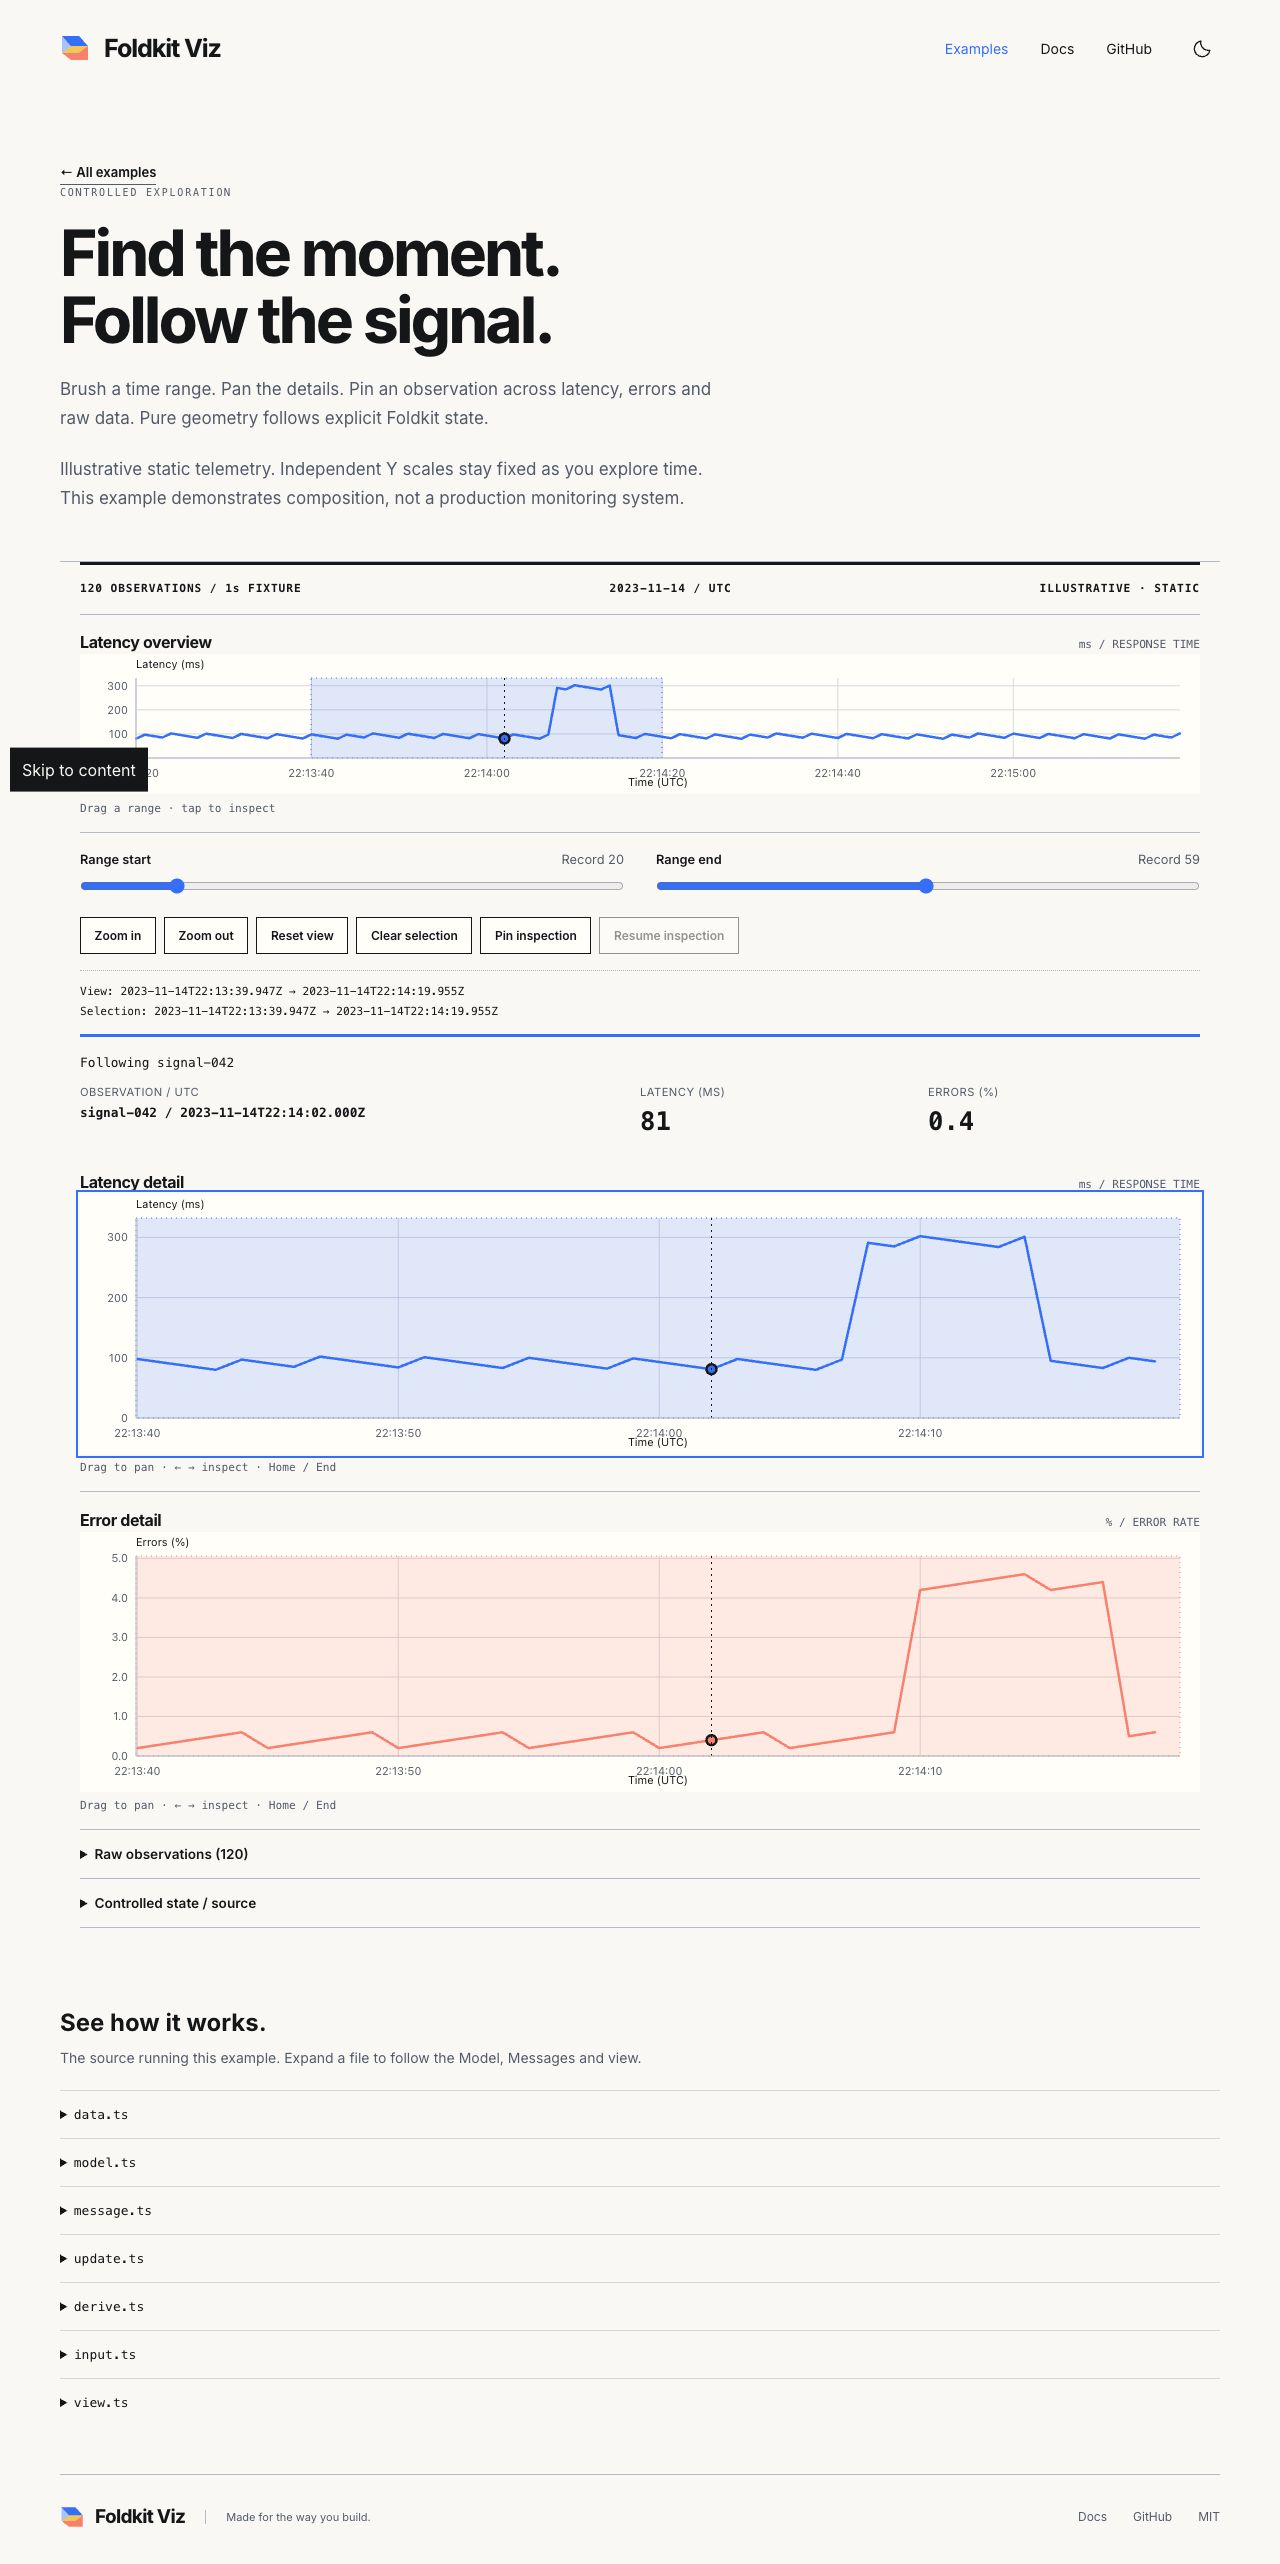
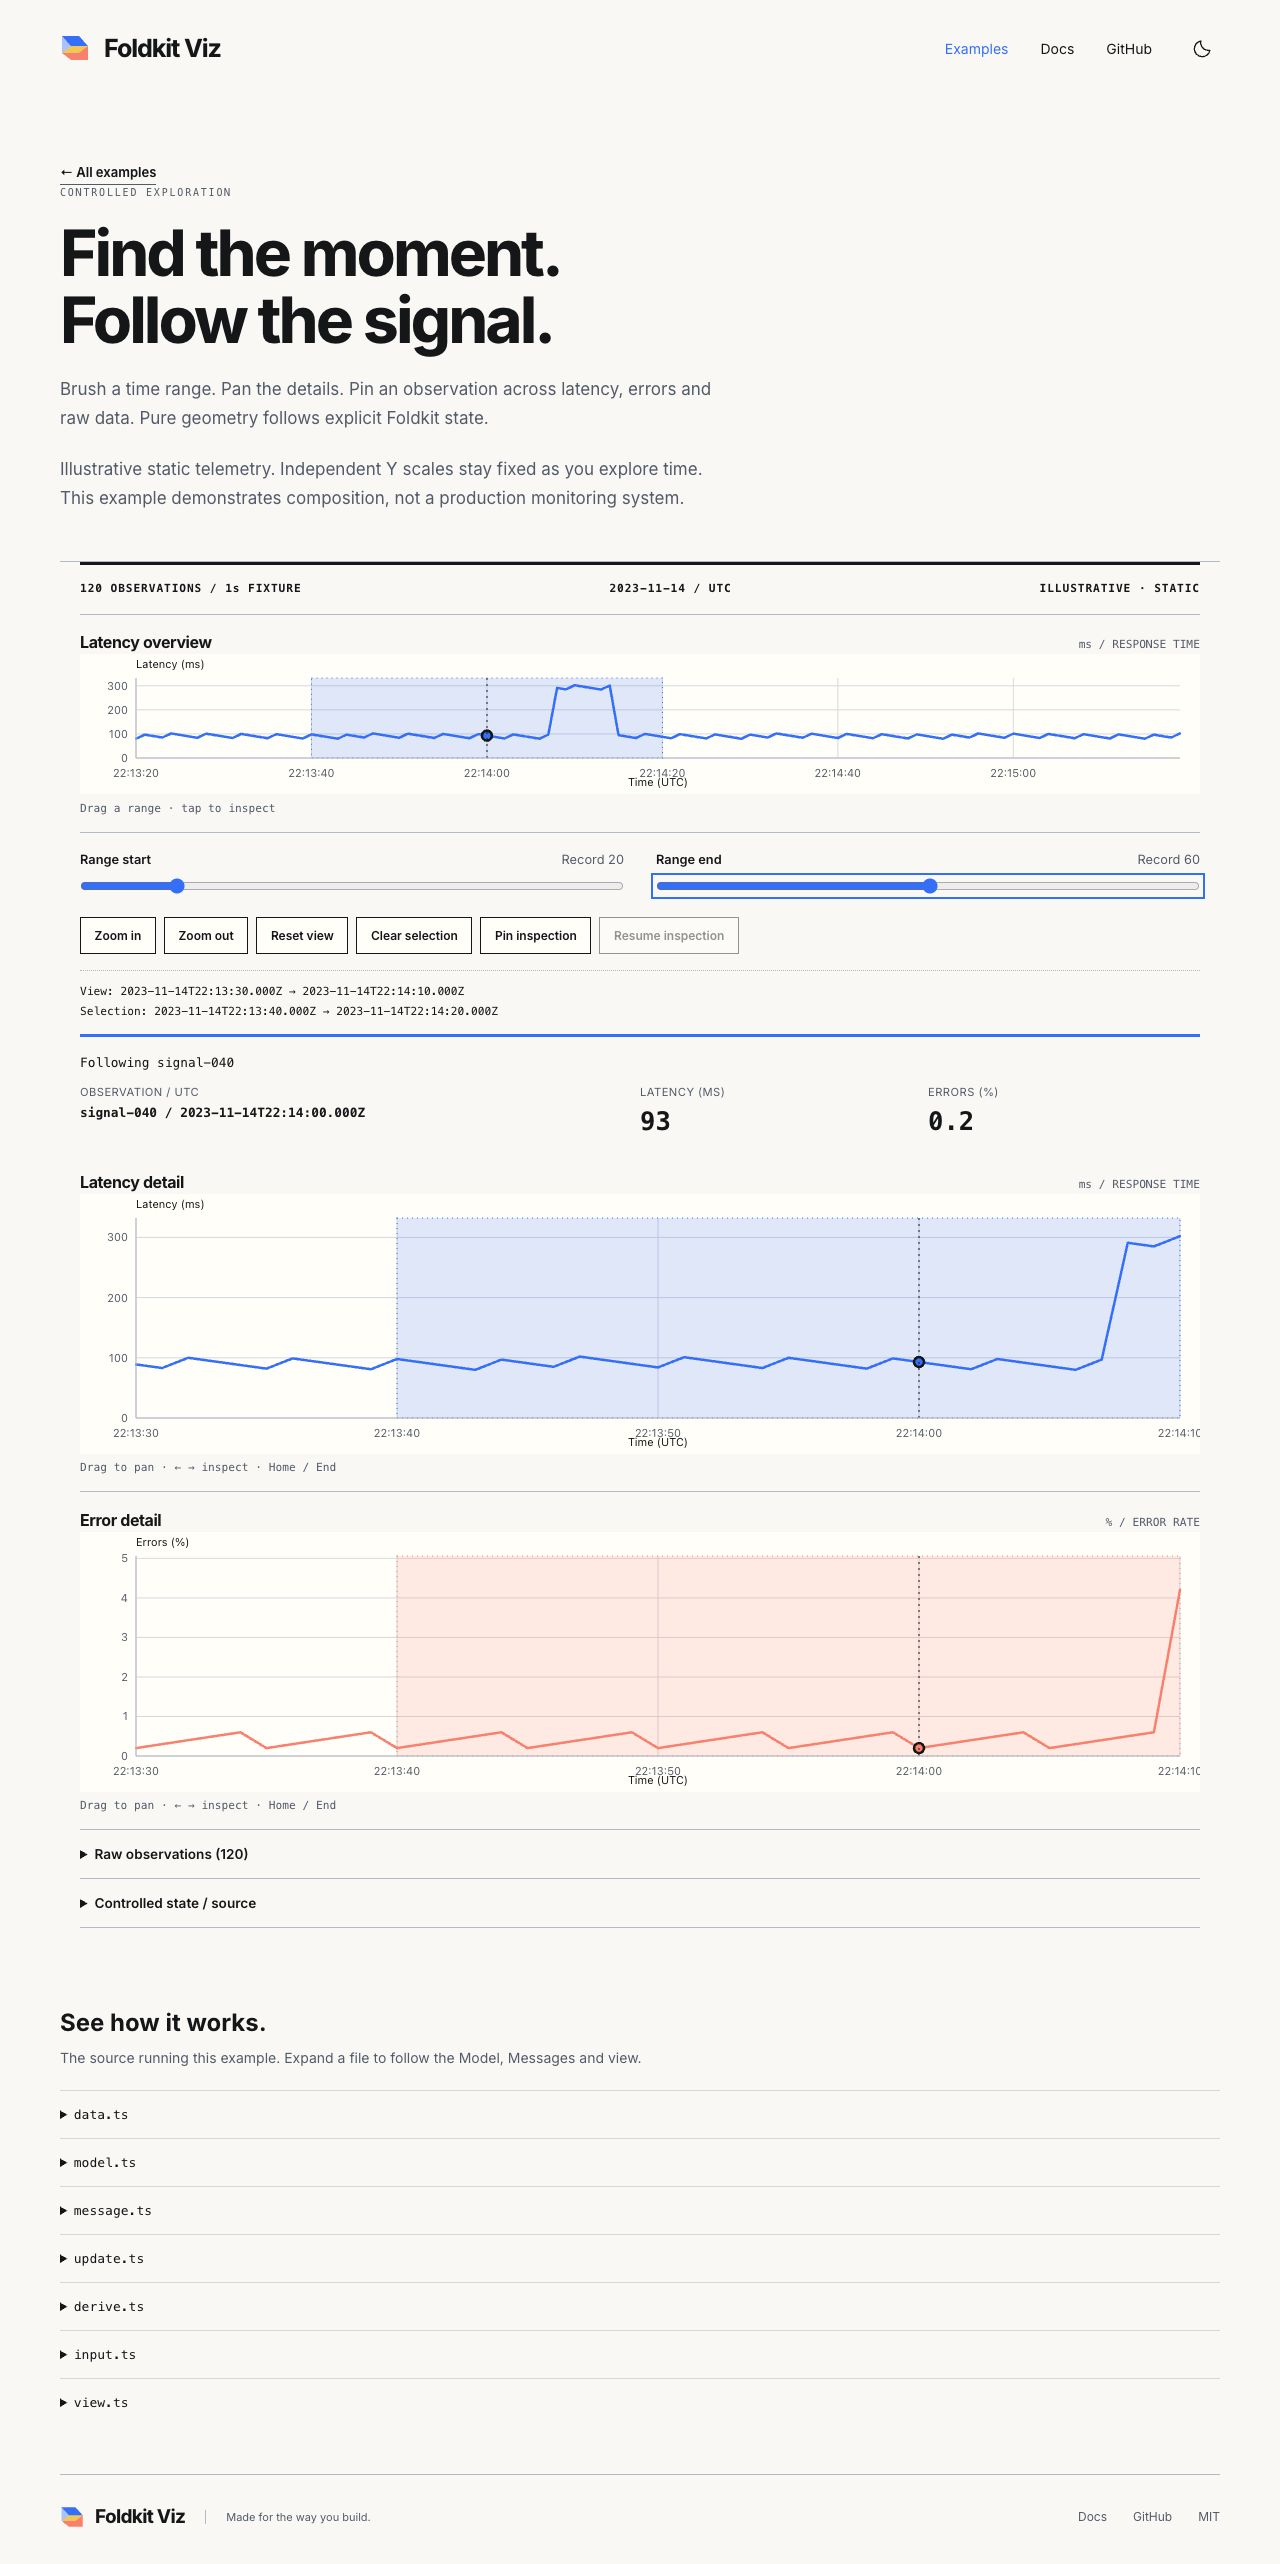
fix(viz): align release inspection with displayed signal domains

diff --git a/apps/promo/test/signal-state.test.ts b/apps/promo/test/signal-state.test.ts
@@ -153,3 +153,25 @@ test('range constraints and keyboard cancellation retain valid state', () => {
   expect(deriveSignalChart(empty, 'latency').visible).toHaveLength(0);
   expect(inspectionNotice(empty)).toContain('No observation');
 });
+
+test('release inspection follows overview bounds and the resulting detail viewport', () => {
+  const data = Array.from({ length: 120 }, (_, i) => ({
+    id: `record-${i}`,
+    time: t0 + i * 1000,
+    latencyMs: 80,
+    errorPercent: 0,
+  }));
+  let m = send(
+    send(ready(data), Message.ChangedRangeStart({ index: 20 })),
+    Message.ChangedRangeEnd({ index: 60 }),
+  );
+  const tap = point(m, 'overview', t0 + 42000);
+  m = send(send(m, Message.StartedChartPointer(tap)), Message.EndedChartPointer(tap));
+  expect(m.inspection.key).toBe('record-42');
+  expect(m.viewport).toEqual([t0 + 20000, t0 + 60000]);
+  const start = point(m, 'latency', t0 + 40000);
+  const end = point(m, 'latency', t0 + 50000);
+  m = send(send(m, Message.StartedChartPointer(start)), Message.EndedChartPointer(end));
+  expect(m.viewport).toEqual([t0 + 10000, t0 + 50000]);
+  expect(m.inspection.key).toBe('record-40');
+});

diff --git a/packages/foldkit-viz/test/coordinates.test.ts b/packages/foldkit-viz/test/coordinates.test.ts
@@ -41,3 +41,29 @@ test('round trips independently composed nested transforms', () => {
     expect(Math.abs((result?.y ?? Infinity) - y)).toBeLessThan(1e-10 * Math.max(1, Math.abs(y)));
   }
 });
+
+test('validates declared matrix fields regardless of additional properties or accessors', () => {
+  const identity = { a: 1, b: 0, c: 0, d: 1, e: 0, f: 0, label: 'identity' };
+  expect(clientToLocal({ x: 2, y: 3 }, identity)).toEqual({ x: 2, y: 3 });
+  class AccessorMatrix {
+    get a() {
+      return NaN;
+    }
+    get b() {
+      return 0;
+    }
+    get c() {
+      return 0;
+    }
+    get d() {
+      return 1;
+    }
+    get e() {
+      return 0;
+    }
+    get f() {
+      return 0;
+    }
+  }
+  expect(() => clientToLocal({ x: 2, y: 3 }, new AccessorMatrix())).toThrow(RangeError);
+});

diff --git a/packages/foldkit-viz/src/interaction/coordinates.ts b/packages/foldkit-viz/src/interaction/coordinates.ts
@@ -12,7 +12,11 @@ export type AffineMatrix = Readonly<{
 
 /** Convert client coordinates using the actual SVG-local → client affine matrix. */
 export function clientToLocal(point: ChartPoint, matrix: AffineMatrix): ChartPoint | null {
-  if (![point.x, point.y, ...Object.values(matrix)].every(Number.isFinite))
+  if (
+    ![point.x, point.y, matrix.a, matrix.b, matrix.c, matrix.d, matrix.e, matrix.f].every(
+      Number.isFinite,
+    )
+  )
     throw new RangeError('Coordinates and matrix fields must be finite');
   const determinant = matrix.a * matrix.d - matrix.b * matrix.c;
   if (determinant === 0 || !Number.isFinite(determinant)) return null;

diff --git a/apps/promo/src/examples/signals/update.ts b/apps/promo/src/examples/signals/update.ts
@@ -162,7 +162,7 @@ const readyUpdate = (m: ReadyModel, message: Message): ReadyModel =>
           });
       }
       return settleInspection(
-        inspect({ ...moved, gesture: Gesture.Idle() }, timeAt(m, p.role, p.x, g.startViewport)),
+        inspect({ ...moved, gesture: Gesture.Idle() }, timeAt(moved, p.role, p.x)),
       );
     },
     CancelledChartPointer: ({ role, pointerId }) =>

diff --git a/docs/superpowers/specs/2026-10-05-controlled-signal-exploration-qualification.md b/docs/superpowers/specs/2026-10-05-controlled-signal-exploration-qualification.md
@@ -17,7 +17,7 @@ The Signal desk composes an overview, latency/errors detail charts, native contr
 - Real Foldkit render tests: labelled SVGs, gesture surfaces, raw records/units, source, notices, no fabricated outside-view cursor and fractional caller precision.
 - Instrumented browser-boundary tests: fresh affine matrices, null/singular/hidden recovery, capture failures, cancellation facts, scoped listeners/observer teardown, no post-close messages, release on unmount. These are host tests, not hardware/browser touch evidence.
 - External packed consumers: Bun, Node, strict TypeScript, typed optional frame Mount; pure consumers do not install Foldkit/Effect.
-- Required root lint/format and typecheck passed with zero warnings/errors; the full suite passed 467 tests with one environment-gated Pages test skipped.
+- Required root lint/format and typecheck passed with zero warnings/errors; the full suite passed 469 tests with one environment-gated Pages test skipped.
 - Pages-base build `/fold-kit-experiments/`: ten routes, including `examples/signals/index.html`; artifact links/islands resolve within the base. Publication is unperformed.
 
 ## Direct browser observations
@@ -38,8 +38,12 @@ Native touch delivery is **unperformed**: this browser reports `Input.dispatchTo
 
 Rectangle/key brushes, resize handles, pinch/wheel zoom, measured HTML tooltip placement, general multi-series registry, quality/uncertainty and downsampling remain outside this slice. No complete F1–F3 or visx parity claim is made. Representative-user comprehension and critical-system suitability are untested.
 
-Independent whole-change review: pending at the first explorer commit; final result and any material regression fixes are recorded below before completion.
+Independent whole-change review completed against `332d08d..306be71`: no Critical findings; release inspection used the wrong domain after overview zoom/detail pan. A matrix-validation finding was regraded Important because valid structural public consumers could throw and inherited invalid fields bypassed validation. Both were reproduced with failing regressions and corrected in one pass; no findings are deferred. The reviewer independently passed 24 focused tests (476 assertions).
+
+Release inspection now uses the resulting model and the role's displayed domain. Native verification after correction: with range records 20–60, overview tap at record 42 inspected `signal-042`; a detail pan from time 40 to the former time-50 position produced viewport 10–50 and inspected `signal-040` beneath release. Matrix validation checks the six declared fields regardless of additional properties or accessor enumerability.
+
+Execution rulings: gesture surface markup followed the scoped input implementation in the view task, delaying native touch assessment until rendering; the input stream declares only its six emitted fact schemas, with no behaviour change; illustrative errors use integer tenths before division to avoid incidental floating-point artefacts, while caller values remain unquantised. Native touch remains unperformed; excluded handles, pinch/wheel, interpolation and async telemetry remain outside M1.
 
 ## Final verification
 
-Root `bun run check` and `bun typecheck`: pass, zero errors/warnings. Root `bun run test`: 467 pass, one environment-gated skip, zero failures. Breakdown: Astro integration 74, Viz 197, promo 78, web 118. Pages-base build: ten pages; explicit `PROMO_BASE_PATH=/fold-kit-experiments/ bun test apps/promo/test/pages-build.test.ts`: one pass, 290 assertions. Native touch remains unperformed as stated above.
+Root `bun run check` and `bun typecheck`: pass, zero errors/warnings. Root `bun run test`: 469 pass, one environment-gated skip, zero failures. Breakdown: Astro integration 74, Viz 198, promo 79, web 118. Pages-base build: ten pages; explicit `PROMO_BASE_PATH=/fold-kit-experiments/ bun test apps/promo/test/pages-build.test.ts`: one pass, 290 assertions. Native touch remains unperformed as stated above.

diff --git a/docs/superpowers/plans/2026-10-05-controlled-signal-exploration.md b/docs/superpowers/plans/2026-10-05-controlled-signal-exploration.md
@@ -146,7 +146,7 @@ Message payloads are fixed: width `{role,width}`; availability `{role,status:'Re
 - [x] Run sequentially: `bun run check`; `bun typecheck`; `bun run test`; Pages-base promo build; environment-gated Pages artifact test. Confirm exit codes and test counts rather than copying the 443 baseline count. Restart dev on 4321 only after dist-changing checks finish.
 - [x] Native QA at 390 and 1280 CSS pixels in light/dark: brush records 20–60 then pan a detail; inspect record 42, pin it, move viewport away and verify notice; zoom/reset/clear distinctions; native keyboard Home/End/arrows/Escape; SVG CSS transform fixture hits the intended exact record; selection and focus survive resize. Save a contextual screenshot.
 - [ ] Native touch QA through the supported CUA input capability: single-touch brush and pan, second-touch cancellation, lost capture and scrolling outside the plot. Exercise hidden-to-visible SVG recovery and unmount/remount. If capability cannot deliver touch, report the exact unperformed acceptance rather than substitute model tests or claim touch qualification.
-- [ ] Run the one independent whole-change review required for native execution. Address material findings with reproduced RED/GREEN regressions; rerun required checks and affected native paths. No second reviewer unless a new user instruction or review outcome requires one.
+- [x] Run the one independent whole-change review required for native execution. Address material findings with reproduced RED/GREEN regressions; rerun required checks and affected native paths. No second reviewer unless a new user instruction or review outcome requires one.
 - [x] Record actual source/numeric/native/lifecycle/consumer evidence and remaining limits in qualification; update F1–F3 status without claiming complete visx parity or publication. Mark plan checkboxes only for observed work.
 - [x] Commit: `feat(promo): deliver qualified controlled signal explorer`. Confirm clean owned worktree; leave dev 4321 available. Final response links the explorer and evidence, gives commit/test status, and recommends an M2 quality/uncertainty spec next. Do not start M2 without approval.
 
